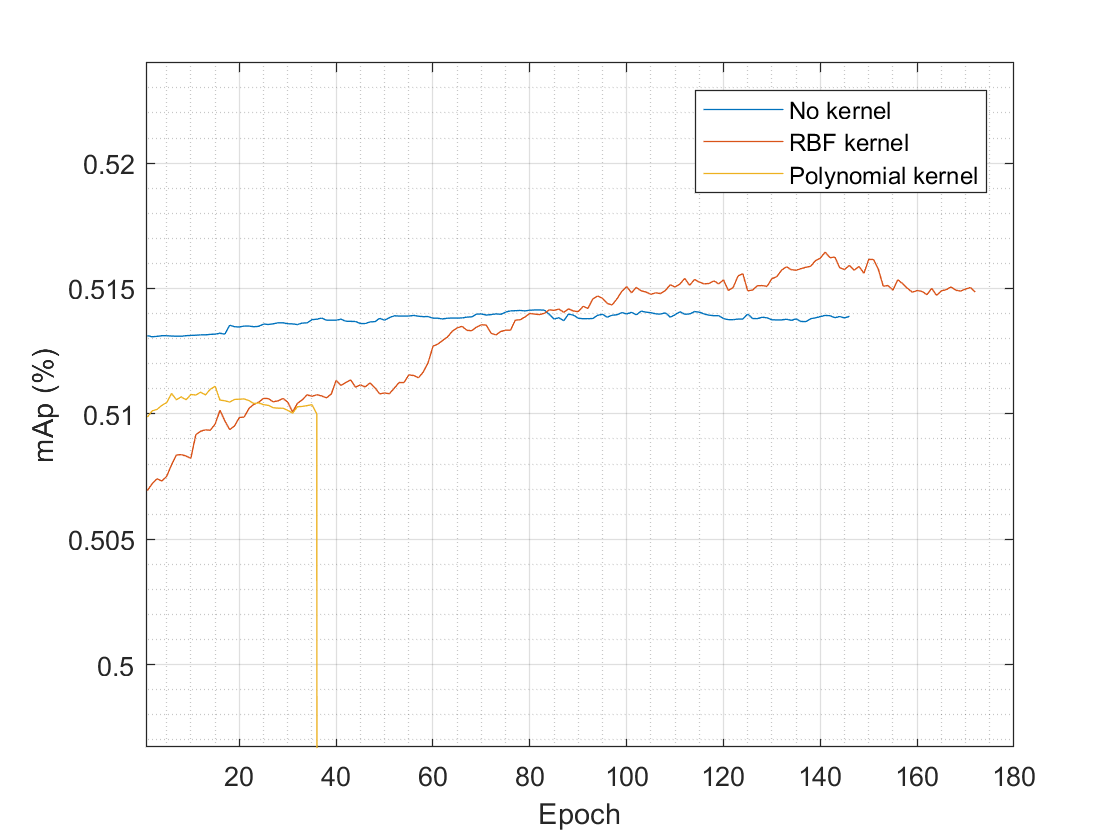
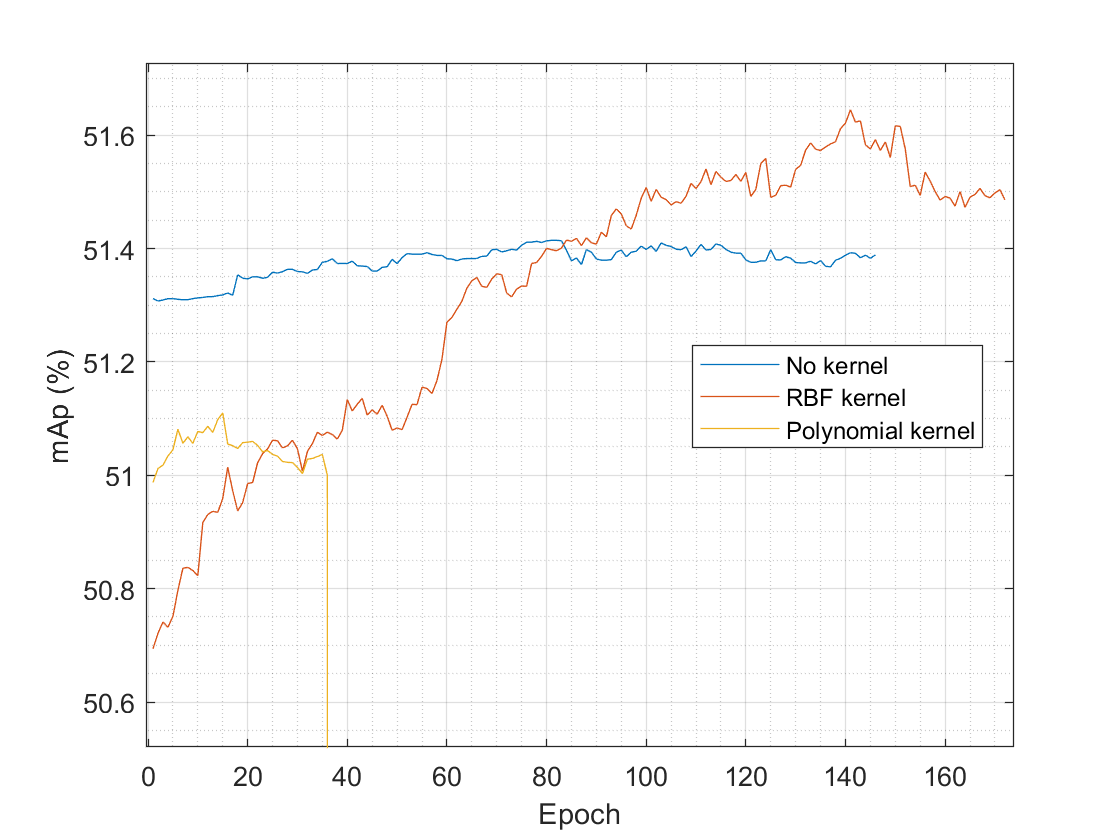
rtyu

diff --git a/optimisation.py b/optimisation.py
@@ -109,8 +109,12 @@ def lossA(distances, labels, l):
 
 
 def lossC(distances, labels, l):
+    if KERNEL is not None:
+        margin = 0.1
+    else:
+        margin = 1
     distances = distances - torch.diag(distances.diag())
-    # distances = distances/torch.max(distances.view(-1))
+    distances = distances/torch.max(distances.view(-1))*10
     label_mask = labels.view(1, -1) == labels.view(-1, 1)
     constraint = torch.zeros((1,))
     chosen_rows = np.arange(0, distances.shape[0])
@@ -118,16 +122,17 @@ def lossC(distances, labels, l):
     chosen_rows = chosen_rows[:min(100, distances.shape[0])].tolist()
     for i in chosen_rows:
 
-        same_label_candidates = torch.masked_select(distances[i, :],  label_mask[i, :])
-        different_label_candidates = torch.masked_select(distances[i, :],  1 - label_mask[i, :])
-        pair = same_label_candidates[:, None] - different_label_candidates[None, :]
+        same_label_candidates = torch.masked_select(distances[i, :i],  label_mask[i, :i])
+        different_label_candidates = torch.masked_select(distances[i, :i],  1 - label_mask[i, :i])
+        if not ((same_label_candidates.shape[0] == 0) or (different_label_candidates.shape[0] == 0)) :
+            pair = torch.tril(same_label_candidates[:, None] - different_label_candidates[None, :] - margin)
 
-        try:
-            # pair = different_label_candidates[0] - same_label_candidates[0]
-            constraint += torch.sum(pair - 1)
-        except IndexError:
+            try:
 
-            pass
+                constraint += torch.sum(pair)
+            except IndexError:
+
+                pass
 
     # Transform maximisation into minimisation
 
@@ -161,7 +166,7 @@ def initialise(mode):
         param = torch.empty((features.shape[0], features.shape[0]), requires_grad=True)
 
         param.data = (
-            torch.from_numpy(np.linalg.cholesky(np.linalg.inv(np.cov(features[:, train_ind]))).transpose()).type(
+            torch.from_numpy(np.linalg.cholesky(np.linalg.inv(np.corrcoef(features[:, train_ind]))).transpose()).type(
                 Tensor))
     elif mode is 'restore':
         param = loadmat('Results/' + FILENAME + '_param_')['L'][0]
@@ -173,11 +178,11 @@ def initialise(mode):
 if __name__ == '__main__':
     BATCHIFY = True
     SIM = False
-    KERNEL = 'poly'
+    KERNEL = 'RBF'
     BATCH_SIZE = 2000
     RANK = 10
     SKIP_STEP = 3
-    FILENAME = 'poly_maha_I_init_train'
+    FILENAME = 'RBF_maha_cov_init_train'
     NUM_ITER = 1000
     INIT_MODES = ['cov', 'I', 'restore']
 
@@ -195,18 +200,18 @@ if __name__ == '__main__':
 
     """Initialise parameters here"""
     if SIM == False:
-        init_params['L'] = initialise(INIT_MODES[1])
-        lr = 0.0000001
+        init_params['L'] = initialise(INIT_MODES[0])
+        lr = 0.00001
     else:
-        init_params['A'] = initialise(INIT_MODES[1])
+        init_params['A'] = initialise(INIT_MODES[0])
         lr = 0.00001
 
     # For gaussian kernel
     if KERNEL is 'RBF':
 
-        param2 = torch.full((1,), 300)
+        param2 = torch.full((1,), 30)
         init_params['sigma'] = param2
-        lr = 0.001
+        lr = 0.0001
 
     elif KERNEL is 'poly':
 

diff --git a/Results/matrix_diff.m b/Results/matrix_diff.m
@@ -1,0 +1,9 @@
+close all, clear all
+NK = load('maha_I_init_train_param_');
+RBF = load('RBF_maha_I_init_train_param_');
+Poly = load('poly_maha_I_init_train_param_');
+
+diff = squeeze(NK.L(1, :, :)) - squeeze(RBF.L(1, :, :));
+diff(logical(eye(size(diff, 1)))) = 0;
+imagesc(abs(diff))
+colorbar
